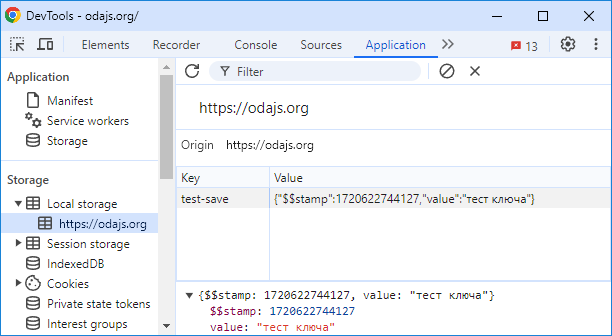
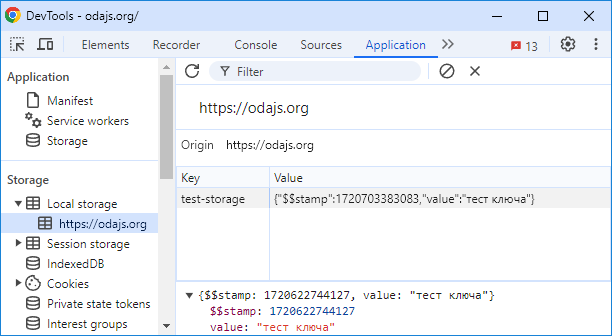
AutoCommit: 83043

Changed region(s): [[0.4346, 0.5655, 0.8693, 0.625], [0.3105, 0.5655, 0.4036, 0.625]]

diff --git a/learn/_help/ru/structure-props-modifiers-$save-additional.md b/learn/_help/ru/structure-props-modifiers-$save-additional.md
@@ -10,14 +10,16 @@
 
 В общем случае ключ имеет вид: `имяКомпонента/значениеИз~save-key`
 
+Но может состоять только из имени компонента.
+
 Например,
 
-```javascript _run_edit_[test-save.js]
+```javascript _run_edit_[test-storage.js]
 ODA({
-    is: 'test-save',
+    is: 'test-storage',
     template: `
         <input ::value>
-        <button @tap="clear">Очистить</button>
+        <button @tap="clear">Очистить хранилище</button>
     `,
     value: {
         $def: 'Пример для $save',
@@ -30,9 +32,14 @@ ODA({
 });
 ```
 
-В данном примере ключом для сохранения данных будет имя компонента **test-save**. Чтобы в этом убедиться, измените в строке ввода значение, заданное по умолчанию, например на текст **«тест ключа»**. Затем откройте окно инструментов разработчика и на закладке **Application** и в разделе **Storage** в списке **Local storage** выберите сервер, с которого Вы читаете эту документацию (в нашем примере ***https://odajs.org***). Убедитесь, что в списке сохраненных значений есть запись с ключом **test-save**. В данном примере не использовалась директива [**~save-key**](./index.html#structure-template-jsx-directives-~save-key.md), поэтому ключ состоит только из имени компонента.
+В данном примере ключом для сохранения данных будет имя компонента **test-storage**. Чтобы в этом убедиться, измените в строке ввода значение, заданное по умолчанию, например на текст *«тест ключа»*. Затем откройте окно инструментов разработчика и на закладке **Application** и в разделе **Storage** в списке **Local storage** выберите сервер, с которого Вы читаете эту документацию (в нашем примере ***https://odajs.org***). Убедитесь, что в списке сохраненных значений есть запись с ключом **test-storage**. В данном примере не использовалась директива [**~save-key**](./index.html#structure-template-jsx-directives-~save-key.md), поэтому ключ состоит только из имени компонента.
 
-![Запись в Web-хранилище](learn/_help/ru/_images/structure-props-modifiers-$save-additional-1.png "Запись в Web-хранилище")
+![Вид записи в Web-хранилище](learn/_help/ru/_images/structure-props-modifiers-$save-additional-1.png "Вид записи в Web-хранилище")
+
+
+Если в проекте применён только один экземпляр компонента, то ключ, состоящий только из одного имени компонента, не будет приводить к коллизиям. Однако если в проекте используется несколько экземпляров одного и того же компонента, то в хранилище будут находиться данные только от одного экземпляра, которые изменились последними. И при перезагрузке страницы они попадут во все остальные экземпляры.
+
+
 
 
 ---

diff --git a/learn/_help/ru/structure-props-modifiers-$save.md b/learn/_help/ru/structure-props-modifiers-$save.md
@@ -13,7 +13,7 @@ ODA({
     is: 'test-component1',
     template: `
         <input ::value>
-        <button @tap="clear">Очистить</button>
+        <button @tap="clear">Очистить хранилище</button>
     `,
     value: {
         $def: 'Пример для $save',
@@ -37,7 +37,7 @@ ODA({
     is: 'test-component2',
     template: `
         <input ::value>
-        <button @tap="clear">Очистить</button>
+        <button @tap="clear">Очистить хранилище</button>
     `,
     $save: {
         value: 'Пример для $save'
@@ -87,7 +87,7 @@ ODA({
     is: 'test-component3',
     template: `
         <input type="range" ::value="value[0]">
-        <button @tap="clear">Очистить</button>
+        <button @tap="clear">Очистить хранилище</button>
     `,
     value: {
         $def: [0],
@@ -109,7 +109,7 @@ ODA({
     is: 'test-component4',
     template: `
         <input type="range" ::value="value[0]" @change="value=[...value]">
-        <button @tap="clear">Очистить</button>
+        <button @tap="clear">Очистить хранилище</button>
     `,
     value: {
         $def: [0],
@@ -133,7 +133,7 @@ ODA({
     is: 'test-component5',
     template: `
         <input type="range" ::value="value.prop">
-        <button @tap="clear">Очистить</button>
+        <button @tap="clear">Очистить хранилище</button>
     `,
     $save: {
         value: {
@@ -156,7 +156,7 @@ ODA({
     is: 'test-component6',
     template: `
         <input type="range" ::value="value.prop" @change="value={...value}">
-        <button @tap="clear">Очистить</button>
+        <button @tap="clear">Очистить хранилище</button>
     `,
     $save: {
         value: {
@@ -181,7 +181,7 @@ ODA({
     is: 'test-component7',
     template: `
         <input type="range" ::value="value.prop" @change="value={...value}">
-        <button @tap="clear">Очистить</button>
+        <button @tap="clear">Очистить хранилище</button>
     `,
     $save: {
         value: {
@@ -211,7 +211,7 @@ ODA({
     is: 'test-component8',
     template: `
         <input type="range" ::value="value.prop">
-        <button @tap="clear">Очистить</button>
+        <button @tap="clear">Очистить хранилище</button>
     `,
     value: {
         $def: {
@@ -241,7 +241,7 @@ ODA({
     is: 'test-component9',
     template: `
         <input type="range" ::value>
-        <button @tap="clear">Очистить</button>
+        <button @tap="clear">Очистить хранилище</button>
     `,
     value: {
         $def: 0,
@@ -278,7 +278,7 @@ ODA({
     is: 'test-component11',
     template: `
         <input type="range" ::value>
-        <button @tap="clear">Очистить</button>
+        <button @tap="clear">Очистить хранилище</button>
     `,
     value: {
         $def: 0,
@@ -294,7 +294,8 @@ ODA({
     is: 'my-component',
     template:`
         <test-component11></test-component11><br>
-        <test-component11></test-component11>
+        <test-component11></test-component11><br>
+        <button @tap="window.location.reload(true)">Обновить</button>
     `
 });
 ```
@@ -310,7 +311,7 @@ ODA({
     is: 'test-component11',
     template: `
         <input type="range" ::value>
-        <button @tap="clear">Очистить</button>
+        <button @tap="clear">Очистить хранилище</button>
     `,
     value: {
         $def: 0,

diff --git a/learn/_help/ru/structure-template-jsx-directives-~save-key.md b/learn/_help/ru/structure-template-jsx-directives-~save-key.md
@@ -11,7 +11,7 @@ ODA({
     is: 'test-component',
     template: `
         <input ::value>
-        <button @tap="clear">Очистить</button>
+        <button @tap="clear">Очистить хранилище</button>
     `,
     value: {
         $def: 'Пример для ~save-key',
